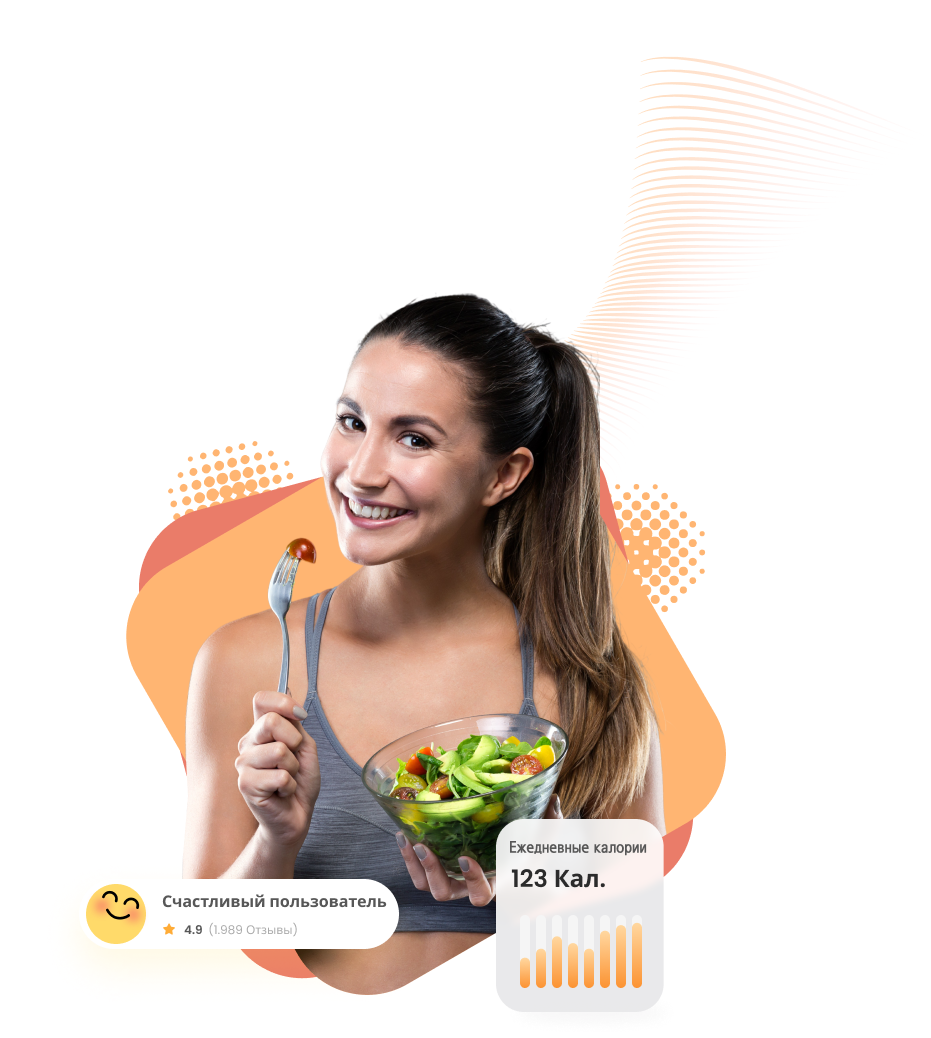
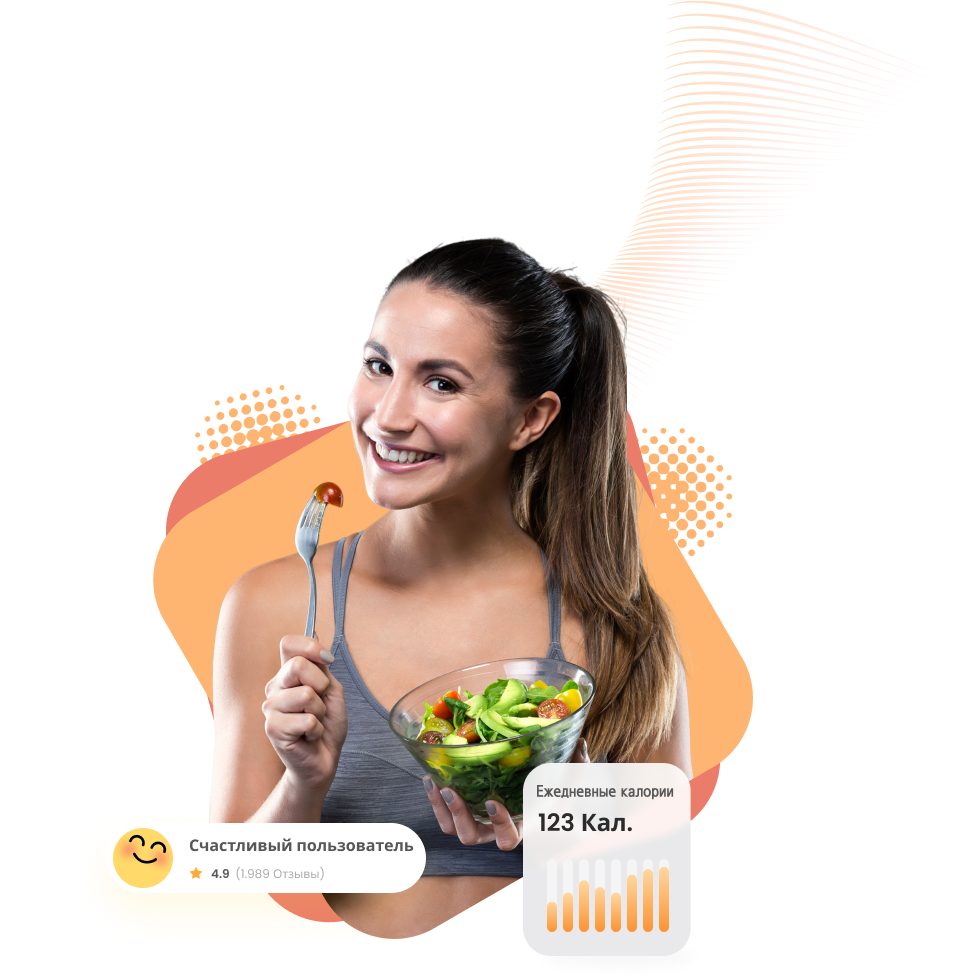
добавил loading при входе в кабинет

diff --git a/src/views/Home.vue b/src/views/Home.vue
@@ -1,48 +1,52 @@
 <template>
-  <div class="home">
-    <div class="home__content">
-      <el-button class="home__content-button" round
-        >Сервис №1 по мнению журнала "Здоровье"</el-button
-      >
-      <h1 class="home__content-title">
-        <span class="home__content-title_color">Забудьте</span> про диеты. <br />
-        Ведь есть <br />FOOD ACCOUTING!
-      </h1>
+  <div>
+    <el-row class="home">
+      <el-col :span="12">
+        <div class="home__content">
+          <el-button class="home__content-button" round
+            >Сервис №1 по мнению журнала "Здоровье"</el-button
+          >
+          <h1 class="home__content-title">
+            <span class="home__content-title_color">Забудьте</span> про диеты. <br />
+            Ведь есть <br />FOOD ACCOUTING!
+          </h1>
 
-      <p class="home__content-description">
-        Не знаете что приготовить? <br />На нашем сервисе вы найдете массу оригинальных рецептов.
-        <br />А, так же сможете ввести детальный учет по съеденным каллориям.
-      </p>
-      <div class="home__content-buttons">
-        <el-button
-          class="home__content-btn"
-          @click="$router.push({ name: 'RegistrationForm' }).catch(() => {})"
-          >Регистрация</el-button
-        >
-        <el-button
-          class="home__content-btn"
-          @click="$router.push({ name: 'AuthorizationForm' }).catch(() => {})"
-          >Авторизация</el-button
-        >
-      </div>
-      <div class="home__content-statistics">
-        <div class="home__content-statistics_one">
-          <h2 class="home__content-statistics_title">1.000+</h2>
-          <p>Пользователей</p>
+          <p class="home__content-description">
+            Не знаете что приготовить? <br />На нашем сервисе вы найдете массу оригинальных
+            рецептов. <br />А, так же сможете ввести детальный учет по съеденным каллориям.
+          </p>
+          <div class="home__content-buttons">
+            <el-button
+              class="home__content-btn"
+              @click="$router.push({ name: 'RegistrationForm' }).catch(() => {})"
+              >Регистрация</el-button
+            >
+            <el-button
+              class="home__content-btn"
+              @click="$router.push({ name: 'AuthorizationForm' }).catch(() => {})"
+              >Авторизация</el-button
+            >
+          </div>
+          <div class="home__content-statistics">
+            <div class="home__content-statistics_one">
+              <h2 class="home__content-statistics_title">1.000+</h2>
+              <p>Пользователей</p>
+            </div>
+            <div class="home__content-statistics_two">
+              <h2 class="home__content-statistics_title">17.000+</h2>
+              <p>Рецептов</p>
+            </div>
+            <div class="home__content-statistics_three">
+              <h2 class="home__content-statistics_title">-38.000 кг</h2>
+              <p>Растопленного жира</p>
+            </div>
+          </div>
         </div>
-        <div class="home__content-statistics_two">
-          <h2 class="home__content-statistics_title">17.000+</h2>
-          <p>Рецептов</p>
-        </div>
-        <div class="home__content-statistics_three">
-          <h2 class="home__content-statistics_title">-38.000 кг</h2>
-          <p>Растопленного жира</p>
-        </div>
-      </div>
-    </div>
-    <div>
-      <img class="home__img-girl" src="@/assets/img/main-screen-girl.png" alt="girl" />
-    </div>
+      </el-col>
+      <el-col :span="12">
+        <img class="home__img-girl" src="@/assets/img/main-screen-girl.png" alt="girl" />
+      </el-col>
+    </el-row>
   </div>
 </template>
 
@@ -139,7 +143,7 @@ export default {
   }
 
   &__img-girl {
-    max-height: 950px;
+    max-height: 900px;
   }
 }
 </style>

diff --git a/src/views/UserRating.vue b/src/views/UserRating.vue
@@ -5,8 +5,7 @@
         <h1 class="user-rating__title">Рейтинг пользователей</h1>
         <hr />
 
-        <el-col :span="12"
-          >
+        <el-col :span="12">
           <el-button
             class="user-rating__tabs"
             :class="{ btnActive: tabsActive === 'excess' }"
@@ -14,8 +13,9 @@
               isExcessWeight = true;
               tabsActive = 'excess';
             "
-            >Сбрасывают вес</el-button>
-            </el-col>
+            >Сбрасывают вес</el-button
+          >
+        </el-col>
         <el-col :span="12">
           <el-button
             class="user-rating__tabs"
@@ -24,8 +24,9 @@
               isExcessWeight = false;
               tabsActive = 'deficit';
             "
-            >Набирают вес</el-button>
-            </el-col>
+            >Набирают вес</el-button
+          >
+        </el-col>
 
         <el-table
           v-if="isExcessWeight"
@@ -147,7 +148,6 @@
               <b> {{ `${scope.row.sumKg} кг.` }}</b>
             </template>
           </el-table-column>
-
         </el-table>
       </el-col>
     </el-row>
@@ -168,6 +168,11 @@ export default {
       tabsActive: 'excess',
     };
   },
+  async created() {
+    await this.$store.dispatch('getListAllUsers');
+    this.spreadOverTables();
+    this.totalCaloriesBurned();
+  },
   computed: {
     // Получаем всех пользователей.
     allUsers() {
@@ -179,6 +184,7 @@ export default {
     totalCaloriesBurned() {
       for (let i = 0; i < this.tableExcessWeight.length; i += 1) {
         const userСalories = Object.values(this.tableExcessWeight[i].userСalories);
+
         const sumCalories = userСalories.reduce((total, obj) => total + obj.differencePerDay, 0);
         this.tableExcessWeight[i].sumCalories = Math.abs(sumCalories);
         this.tableExcessWeight[i].sumKg = +Math.abs(sumCalories / 7700).toFixed(2);
@@ -196,7 +202,6 @@ export default {
     spreadOverTables() {
       // Получаем ключ всех пользователей
       const keysAllUsers = Object.keys(this.allUsers);
-
       // Сохраняем всех пользователей в массив.
       const allUsersArr = [];
       for (let i = 0; i < keysAllUsers.length; i += 1) {
@@ -224,11 +229,6 @@ export default {
         }
       }
     },
-  },
-  async created() {
-    await this.$store.dispatch('getListAllUsers');
-    this.spreadOverTables();
-    this.totalCaloriesBurned();
   },
   mounted() {
     // Сортируем массивы по значению sumKg

diff --git a/src/views/MyGoals.vue b/src/views/MyGoals.vue
@@ -1,10 +1,10 @@
 <template>
-  <el-col
-    class="my-goals"
-    :span="20"
-    v-loading.fullscreen="isLoading"
+    <el-col
+  v-loading.fullscreen="isLoading"
     element-loading-text="Загрузка..."
     element-loading-background="rgba(0, 0, 0, 0.8)"
+    class="my-goals"
+    :span="20"
     v-if="infoCurrentUser"
   >
     <h1 class="my-goals__title">Мои цели</h1>
@@ -352,6 +352,7 @@
 </template>
 
 <script>
+
 export default {
   data() {
     return {
@@ -406,7 +407,6 @@ export default {
         const currentData = new Date().toLocaleString().slice(0, 10).split('.')
           .reverse()
           .join('.');
-
         // Возвращаю кол-во миллисекунд текущей даты
         const currentDataMseconds = Date.parse(currentData);
 
@@ -518,6 +518,9 @@ export default {
       localStorage.setItem('numKgReduce', this.numKgReduce);
     },
   },
+  beforeUpdate() {
+    this.$store.commit('LOADING_FALSE');
+  },
   created() {
     /* Диспатчим getForm, для получения и перезаписи
       информацию по калориям, подтягиваю обновленную
@@ -546,8 +549,8 @@ export default {
     // Актуальный текущий вес, с учетом сброшенных каллорий
     currentWeight() {
       const userWeight = this.infoCurrentUser.weight;
-      const result = userWeight - (this.caloriesBurned / 7700).toFixed(1);
-      return result;
+      const result = userWeight - (this.caloriesBurned / 7700);
+      return result.toFixed(1);
     },
     // Отвечает за индикацию прогресса
     userProgress() {

diff --git a/src/App.vue b/src/App.vue
@@ -1,5 +1,7 @@
 <template>
-  <div id="app">
+  <div id="app" v-loading.fullscreen="isLoading"
+    element-loading-text="Загрузка..."
+    element-loading-background="rgba(0, 0, 0, 0.8)">
     <el-container>
     <SideBar v-if="infoCurrentUser && isAuthenticated"/>
       <el-main>
@@ -26,12 +28,17 @@ export default {
     infoCurrentUser() {
       return this.$store.state.UserInfoDatabase.infoCurrentUser;
     },
+    isLoading() {
+      return this.$store.state.isLoading;
+    },
   },
 };
 </script>
 
 <style lang="scss">
 @import 'src/scss/reset.scss';
+
+[v-cloak] { visibility: hidden !important; }
 
 body {
   padding: 0;

diff --git a/src/views/AuthorizationForm.vue b/src/views/AuthorizationForm.vue
@@ -78,7 +78,7 @@ export default {
               message: 'Успешная авторизация!',
               type: 'success',
             });
-            // this.$store.dispatch('getForm');
+            this.$store.commit('LOADING_TRUE');
             this.$router.push({ name: 'MyGoals' }).catch(() => {});
           } else {
             this.$message({
@@ -86,6 +86,8 @@ export default {
               type: 'error',
             });
           }
+        }).catch((error) => {
+          console.error(error);
         });
     },
   },

diff --git a/src/store/index.js b/src/store/index.js
@@ -6,6 +6,17 @@ import UserInfoDatabase from './modules/UserInfoDatabase';
 
 Vue.use(Vuex);
 export default new Vuex.Store({
+  state: {
+    isLoading: false,
+  },
+  mutations: {
+    LOADING_FALSE(state) {
+      state.isLoading = false;
+    },
+    LOADING_TRUE(state) {
+      state.isLoading = true;
+    },
+  },
   modules: { UserAuth, UserInfoDatabase },
   plugins: [
     createPersistedState({

diff --git a/src/views/RegistrationForm.vue b/src/views/RegistrationForm.vue
@@ -193,6 +193,7 @@ export default {
               message: 'Успешная регистрация, поздравляем!',
               type: 'success',
             });
+            this.$store.commit('LOADING_TRUE');
             this.$store.dispatch('setForm', this.formRegister);
             this.$store.dispatch('getForm');
           } else {

diff --git a/public/index.html b/public/index.html
@@ -18,7 +18,7 @@
     <strong>We're sorry but <%= htmlWebpackPlugin.options.title %> doesn't work properly without JavaScript enabled.
         Please enable it to continue.</strong>
   </noscript>
-  <div id="app"></div>
+  <div id="app" v-cloak></div>
   <!-- built files will be auto injected -->
 </body>
 
